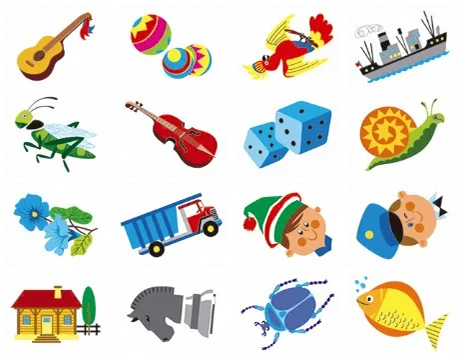
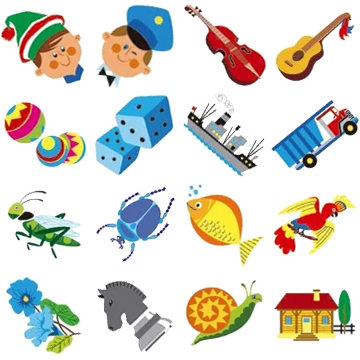
Extense UI changes and set/back selection

diff --git a/memorama.js b/memorama.js
@@ -10,7 +10,7 @@ const BOARD_COLS = 4;
 const IMAGE_ROWS = 4;
 const IMAGE_COLS = 4;
 
-const IMAGE_WIDTH = 115;
+const IMAGE_WIDTH = 90;
 const IMAGE_HEIGHT = 90;
 
 const CLOSE_PAIR_DELAY = 1500;
@@ -31,8 +31,7 @@ let gameStatistics = getGameStatistics() || false;
 // Based on settings apply some general classes to body
 if (gameSettings) {
     if (gameSettings.darkTheme) document.body.classList.add('dark-theme');
-    if (gameSettings.back) setCardBackStyle(gameSettings.back);
-    if (gameSettings.set) setCardSetStyle(gameSettings.set);
+    if (gameSettings.set) setCardSetStyle();
 }
 
 // Initialize the data for each pair of images for the cards
@@ -56,6 +55,11 @@ function initImages() {
 function getRandomImage() {
     if (images.length == 0) {
         initImages();
+        let boardPlaces = BOARD_COLS * BOARD_ROWS;
+        if (boardPlaces < images.length * 2) {
+            boardPlaces -= boardPlaces % 2;
+            images.length = boardPlaces / 2;
+        }
     }
     // Get the indexes of the available images
     let avail = [];
@@ -80,8 +84,8 @@ function getRandomImage() {
 function initBoard() {
     let boardContainer = document.getElementById('board-container');
     for (let i = 0; i < BOARD_ROWS; i++) {
-        let row = document.createElement('div');
-        row.classList.add('row');
+        //let row = document.createElement('div');
+        //row.classList.add('row');
         for (let j = 0; j < BOARD_COLS; j++) {
             let cardImage = getRandomImage();
             // If there is card image available
@@ -95,10 +99,11 @@ function initBoard() {
                 card.dataset.id = cardImage.id;
                 card.addEventListener('click', cardClick);
                 cardHolder.appendChild(card);
-                row.appendChild(cardHolder);
+                //row.appendChild(cardHolder);
+                boardContainer.appendChild(cardHolder);
             }
         }
-        boardContainer.appendChild(row);
+        //boardContainer.appendChild(row);
     }
 }
 
@@ -281,8 +286,10 @@ function getGameSettings() {
         return JSON.parse(localStorage.getItem('memorama-settings')) ||
         {
             darkTheme: false,
-            cards: 'montecarlo',
-            back: 'montecarlo'
+            set: {
+                name: "montecarlo",
+                radius: "2px"
+            }
         }
     }
 }
@@ -374,39 +381,27 @@ function showSettings() {
                 </div>
             </div>
 
-            <div class="setting">
+            <div class="setting vertical">
                 <div class="Text">
-                    <div class="title">Card Back Design</div>
+                    <div class="title">Card Set</div>
                 </div>
                 <div class="image-select">
-                    <img class="image-option" name="back" data-value="montecarlo" src="./img/back-montecarlo.png">
-                    <img class="image-option" name="back" data-value="classic-blue" src="./img/back-classic-blue.png">
-                    <img class="image-option" name="back" data-value="pokemon" src="./img/back-pokemon.png">
-                    <img class="image-option" name="back" data-value="old" src="./img/back-old.png">
-                </div>
-            </div>
-
-            <div class="setting">
-                <div class="Text">
-                    <div class="title">Card Images Set</div>
-                </div>
-                <div class="image-select">
-                    <img class="image-option" name="set" data-value="montecarlo" src="./img/set-montecarlo.png">
-                    <img class="image-option" name="set" data-value="minecraft" src="./img/set-minecraft.png">
-                    <img class="image-option" name="set" data-value="pokemon-cute" src="./img/set-pokemon-cute.png">
+                    <img class="image-option" name="set" data-value="montecarlo" data-radius="2px" title="Montecarlo" src="./img/back-montecarlo.png">
+                    <img class="image-option" name="set" data-value="minecraft" data-radius="10px" title="Minecraft" src="./img/back-minecraft.png">
+                    <img class="image-option" name="set" data-value="pokemon" data-radius="12px" title="Pokemon" src="./img/back-pokemon.png">
                 </div>
             </div>
 
         </div>`;
     msgbox('', html);
-    // Set a selected attribute in back and set options (if selected)
-    if (gameSettings.back) document.querySelector(`.image-option[name='back'][data-value='${gameSettings.back}']`).setAttribute('selected', '');
-    if (gameSettings.set) document.querySelector(`.image-option[name='set'][data-value='${gameSettings.set}']`).setAttribute('selected', '');
+    // Set a selected attribute in card set options (if selected)
+    if (gameSettings.set) document.querySelector(`.image-option[name='set'][data-value='${gameSettings.set.name}']`).setAttribute('selected', '');
     // Event listener for changes in the settings controls
     document.getElementById('settings-container').addEventListener('click', (e) => {
         let target = e.target;
         let name = target.getAttribute('name');
         let checked = (target.getAttribute('checked') == null);
+
         // Dark Theme
         if (name == 'dark-theme') {
             gameSettings.darkTheme = checked;
@@ -418,26 +413,15 @@ function showSettings() {
                 target.removeAttribute('checked');
             }
         }
-        // Card Back Design
-        if (name == 'back') {
-            let lastSelected = document.querySelector('.image-option[name="back"][selected]');
-            let optionSelected = target.dataset.value;
-            if (lastSelected) lastSelected.removeAttribute('selected');
-            target.setAttribute('selected', '');
-            gameSettings.back = optionSelected;
-            // Apply setting to actual game
-            setCardBackStyle(optionSelected);
-        }
 
         // Card image set
         if (name == 'set') {
             let lastSelected = document.querySelector('.image-option[name="set"][selected]');
-            let optionSelected = target.dataset.value;
             if (lastSelected) lastSelected.removeAttribute('selected');
             target.setAttribute('selected', '');
-            gameSettings.set = optionSelected;
+            gameSettings.set = { name: target.dataset.value, radius: target.dataset.radius };
             // Apply setting to actual game
-            setCardSetStyle(optionSelected);
+            setCardSetStyle();
         }
 
         // Store configuration in local storage
@@ -445,24 +429,17 @@ function showSettings() {
     });
 }
 
-// Change background image for card back style
-// style: must be a valid string part of a filename like back-{styleName}.png
-function setCardBackStyle(styleName) {
+// Change set of images for open cards
+// style: must be a valid string part of a filename like set-{styleName}.png
+function setCardSetStyle() {
     let rules = []; // empty array to gather all the CSS rules of
     let sheets = [...document.styleSheets]; // all the document stylesheets
     sheets.forEach(sheet => rules.push(...sheet.cssRules)); // all rules together
     cardRule = rules.find(rule => rule.selectorText === '.card'); // to find the card class selector
-    cardRule.style.backgroundImage = `url("./img/back-${styleName}.png")`; // and change the back image style
-}
-
-// Change set of images for open cards
-// style: must be a valid string part of a filename like set-{styleName}.png
-function setCardSetStyle(styleName) {
-    let rules = []; // empty array to gather all the CSS rules of
-    let sheets = [...document.styleSheets]; // all the document stylesheets
-    sheets.forEach(sheet => rules.push(...sheet.cssRules)); // all rules together
-    cardRule = rules.find(rule => rule.selectorText === '.card.open'); // to find the open card class selector
-    cardRule.style.backgroundImage = `url("./img/set-${styleName}.png")`; // and change the back image style
+    cardRule.style.backgroundImage = `url("./img/back-${gameSettings.set.name}.png")`; // and change the back image style
+    cardRule.style.borderRadius = gameSettings.set.radius; // and the card border radius
+    cardOpenRule = rules.find(rule => rule.selectorText === '.card.open'); // to find the open card class selector
+    cardOpenRule.style.backgroundImage = `url("./img/set-${gameSettings.set.name}.png")`; // and change the back image style
 }
 
 // Initializes the navigation bars buttons

diff --git a/memorama.css b/memorama.css
@@ -4,10 +4,10 @@
 @import url(https://fonts.googleapis.com/icon?family=Material+Icons+Outlined);
 
 :root {
-    --card-width: 115px;
+    --card-width: 90px;
     --card-height: 90px;
 
-    --image-width: 115px;
+    --image-width: 90px;
     --image-height: 90px;
 
     --transition-delay: 125ms;
@@ -34,28 +34,28 @@ html * {
 }
 
 body {
-    height: 100vh;
     width: 100vw;
+    height: 100vh;
+    overflow: hidden;
     color: var(--default-color);
     background-color: var(--default-bg-color);
     display: flex;
     flex-direction: column;
-    justify-content:center;
+    justify-content: space-between;
+    align-items: center;
 }
 
 /* HEADER AND MENUS STYLES */
 
 header {
-    width: 100%;
     max-width: 512px;
+    width: 100%;
     height: 36px;
-    margin: 0 auto;
     display: flex;
     flex-direction: row;
     align-items: center;
     justify-content: space-between;
     flex-wrap: nowrap;
-    padding: 0 4px;
     border-bottom: 1px solid gray;
 }
 
@@ -64,13 +64,22 @@ header button {
     color: var(--default-color);
     background-color: var(--default-bg-color);
     cursor: pointer;
+    padding: 3px;
 }
 
+main {
+    flex: content;
+    display: flex;
+    justify-content: center;
+    align-items: center;
+}
 /* FOOTER STYLES */
 
 footer {
-    width: 100%;
+    display: none;
+    font-size: small;
     max-width: 512px;
+    width: 100%;
     margin: 0 auto;
     color: gray;
     height: fit-content;
@@ -79,37 +88,51 @@ footer {
     border-top: 1px solid gray;
 }
 
+@media (min-width: 390px) {
+    body {
+        justify-content: center;
+    }
+    footer {
+        display: block;
+    }
+}
+
 /* GAME STYLES AND TRANSITIONS */
 
 #board-container {
+    max-width: 390px;
     width: 100%;
-    display: flex;
-    flex-direction: column;
-    align-items: center;
-    justify-content: center;
+    display: block;
+    padding: 5px;
+    text-align: center;
+    margin: 0 auto;
+    line-height: 0px;
 }
-
-.row {
-    display: flex;
-    flex-direction: row;
-    align-items: center;
-    justify-content: center;
+@media (min-width: 768px) and (orientation: landscape) {
+    #board-container {
+        min-width: 768px;
+    }
+}
+@media (max-width: 390px) {
+    body {
+        min-width: 390px;
+    }
 }
 
 .card-holder {
     width: var(--card-width);
     height: var(--card-height);
-    display: flex;
-    flex-direction: row;
+    display: inline-block;
     align-items: center;
     justify-content: center;
-    margin: 5px;
+    border: 0;
+    margin: 2px;
 }
 
 .card {
     width: var(--card-width);
     height: var(--card-height);
-    border-radius: 4px;
+    border-radius: 2px;
     border: none;
     background-image: url(./img/back-montecarlo.png);
     box-shadow: 1px 1px var(--card-shadow-radius) var(--card-shadow-radius) var(--card-shadow-color);
@@ -127,19 +150,6 @@ footer {
 }
 .card.hidden {
     display: none;
-}
-
-@media (max-width: 512px) {
-    body {
-        justify-content: space-between;
-    }
-    footer {
-        display: none;
-    }
-    #board-container {
-        transform: scale(0.60);
-        height: 100%;
-    }
 }
 
 /* Adjust some styling for modal dialogs */
@@ -231,12 +241,14 @@ footer {
 
 /* Styling for settings dialog */
 .setting {
-    align-items: center;
     border-bottom: 1px solid #555;
+    padding: 16px 0;
     display: flex;
     flex-direction: row;
     justify-content: space-between;
-    padding: 16px 0;
+}
+.setting.vertical {
+    flex-direction: column;
 }
 .setting .title {
     color: var(--default-color);
@@ -244,12 +256,14 @@ footer {
     font-size: 18px;
 }
 .setting .description {
+    float: left;
     color: var(--default-color);
     filter: brightness(0.5);
     display: block;
     font-size: 12px;
 }
 .setting .switch {
+    float: right;
     background-color: #555;
     height: 20px;
     width: 32px;
@@ -277,19 +291,19 @@ footer {
     right: 2px;
     left: auto;
 }
-
 .image-select {
     display: block;
-    clear: both;
+    margin-top: 10px;
 }
 .image-select .image-option {
-    width: 48px;
-    height: 48px;
+    max-width: 90px;
+    max-height: 90px;
     padding: 8px;
     border-radius: 8px;
     display: inline-block;
 }
 .image-select .image-option[selected] {
     background-color: #555;
+    /* border: 1px solid white; */
 }
 /* End of code. */
